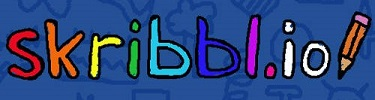
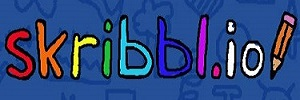
Add css

diff --git a/src/mycomp/lobby.js b/src/mycomp/lobby.js
@@ -26,12 +26,15 @@ const Lobby = () => {
     const [ time, setTime ] = useState("");
     const [ timeUp, setTimeUp ] = useState(false);
     const [ picker, setPicker ] = useState("");
+    const [ roundNumber, setRoundNumber ] = useState(0);
     const [ boardLock, setBoardLock ] = useState(false);
     const [ wordList, setWordList ] = useState([]);
     const [ showWordList, setShowWordList ] = useState(false);
     const [ choseWord, setChoseWord ] = useState(false);
     const [ choosenWord, setChoosenWord ] = useState("");
     const [ chatLock, setChatlock ] = useState(false);
+    const [ gameOver, setGameOver ] = useState(false);
+    const [ drawing, setDrawing ] = useState(false);
 
     useEffect(() => {
         
@@ -71,7 +74,15 @@ const Lobby = () => {
         gameSocket.on("Pick A Word", (wordList) => {
             setWordList(wordList);
             setShowWordList(true);
-            
+        });
+
+        gameSocket.on("Game over", () => {
+            setGameOver(true);
+        });
+
+        gameSocket.on("User is drawing", (user) => {
+            if (user != username)
+                setDrawing(true);
         });
 
     },[gameSocket])
@@ -88,14 +99,9 @@ const Lobby = () => {
     <Row>
     <Col>
         <span>
-            {time != 0 ? <h4>Time remaining: {time}</h4> : <h4> Times up</h4> }
-            {showWordList && <button className="button" onClick={() => {setChoseWord(true); handleChoseWord(); setShowWordList(false); }}> </button>}
-            {showWordList && <h2>User Picking words:{picker}</h2>}
-            {/* {showWordList && wordList.map((word,index) => {
-                return (
-                    <h4 key={index}>{word}</h4>
-                );
-            })} */}
+            <Container className="Skribbl"></Container>
+           
+            
             <Modal
             show={showWordList}
             // onHide={() => setShowWordList(false)}
@@ -125,12 +131,19 @@ const Lobby = () => {
                 <Button variant="primary">Understood</Button>
             </Modal.Footer> */}
             </Modal>
-            <div className="Participants">
-            <Participants/>
-            </div>
+            <span>
+                <div>
+                    <span>
+                    {gameOver && time != 0 ? <h4>Time remaining: {time}</h4> : <h4> Times up</h4> }
+                    </span>
+                <div className="Participants">
+                    <Participants/>
+                </div>
+                </div>
+            </span>
         </span>
     </Col>
-    <Col xs={6} >
+    <Col style={{marginTop:"5vh"}} xs={6} >
         <span className="Board">
             <div>
                  <span className="color-picker-container">
@@ -160,12 +173,13 @@ const Lobby = () => {
                  </span>
                  </div>
                  <div className={mode==="eraser" ? "canvas2" : "canvas1"} >
-                    <Board color={color} size={size} mode={mode}/>
+                    <Board color={color} size={size} mode={mode} boardLock={boardLock} />
                  </div>
          </span>
     </Col>
-    <Col>
+    <Col style={{marginTop:"12vh"}}>
         <span className="overflow-auto" id="chat-section">
+                <h2>Chat</h2>
                 <Chat 
                     gameSocket={gameSocket}
                     chatLock={chatLock}

diff --git a/src/mycomp/board.js b/src/mycomp/board.js
@@ -12,11 +12,14 @@ class board extends React.Component {
     username;
     roomid;
     mode;
+    
 
     constructor(props){
         super(props);
         this.mode="pen";
-
+        this.state={
+            boardLock: this.props.match.params.boardLock
+        }
         this.username =this.props.match.params.username;
         this.roomid =this.props.match.params.roomid;
         this.socket = io("http://127.0.0.1:8080",{ transports: [ "websocket" ],query:{userName:this.username}});
@@ -108,32 +111,33 @@ class board extends React.Component {
         var root=this;
         var onPaint = function() {
             
-            if(root.mode==="pen"){
+            if (!this.boardLock){
+                if(root.mode==="pen"){
 
-                ctx.globalCompositeOperation="source-over";
-                ctx.beginPath();
-                ctx.moveTo(last_mouse.x, last_mouse.y);
-                ctx.lineTo(mouse.x, mouse.y);
-                ctx.closePath();
-                ctx.stroke();
+                    ctx.globalCompositeOperation="source-over";
+                    ctx.beginPath();
+                    ctx.moveTo(last_mouse.x, last_mouse.y);
+                    ctx.lineTo(mouse.x, mouse.y);
+                    ctx.closePath();
+                    ctx.stroke();
+                }
+                if(root.mode==="eraser"){
+                    ctx.globalCompositeOperation="destination-out";
+                    // ctx.arc(last_mouse.x, last_mouse.y,1,0,Math.PI*2,false);
+                    ctx.beginPath();
+                    ctx.moveTo(last_mouse.x, last_mouse.y);
+                    ctx.lineTo(mouse.x, mouse.y);
+                    ctx.closePath();
+                    ctx.stroke();
+                    // ctx.fill();
+                    ctx.globalCompositeOperation="source-over";
+                }
+                if(root.timeout !== undefined){clearTimeout(root.timeout);}
+                root.timeout=setTimeout(function(){
+                    var base64ImageData=canvas.toDataURL("image/png");
+                    root.socket.emit("canvas-data",base64ImageData,root.roomid);
+                },200)
             }
-            if(root.mode==="eraser"){
-                ctx.globalCompositeOperation="destination-out";
-                // ctx.arc(last_mouse.x, last_mouse.y,1,0,Math.PI*2,false);
-                ctx.beginPath();
-                ctx.moveTo(last_mouse.x, last_mouse.y);
-                ctx.lineTo(mouse.x, mouse.y);
-                ctx.closePath();
-                ctx.stroke();
-                // ctx.fill();
-                ctx.globalCompositeOperation="source-over";
-            }
-            if(root.timeout !== undefined){clearTimeout(root.timeout);}
-            root.timeout=setTimeout(function(){
-                var base64ImageData=canvas.toDataURL("image/png");
-                root.socket.emit("canvas-data",base64ImageData,root.roomid);
-            },200)
-
         };
     
     };

diff --git a/src/mycomp/lobby.css b/src/mycomp/lobby.css
@@ -7,10 +7,21 @@
     text-align: center;
 }
 .Participants{
-    margin-top:15vh;
+    margin-top: 3vh;
     height:70vh;
-    background-color: rgb(194, 153, 153);
+    background-color: rgb(255, 255, 255);
 }
+
+.Participants h2{
+    text-align: center;
+    font-size: 30px;
+    color: crimson;
+    margin-bottom: 10px;
+    border-radius: 1px;
+    border-color: black;
+  }
+  
+
 .canvas1{
     height:77vh;
     margin-top: 3vh;
@@ -32,11 +43,17 @@
 }
 #chat-section{
     height: 70vh;
-    margin-top:15vh;
+    margin-top:3vh;
   
     background-image: url("../chat-background.jfif");
 }
-
+#chat-section h2{
+    text-align: center;
+    font-size: 30px;
+    color: rgb(20, 67, 220);
+    margin-bottom: 10px;
+  }
+  
 .wordButton {
     background: #f1356d;
     color: #fff;
@@ -48,3 +65,11 @@
     margin-right: 10px;
     cursor: pointer;
   }
+
+  .Skribbl {
+      width: 300px;
+      height: 100px;
+      background-image: url("../Skribbl.jpg");
+  }
+
+ 

diff --git a/socket/gameServer.js b/socket/gameServer.js
@@ -153,7 +153,7 @@ io.on("connection", (socket) => {
          
         //console.log(timeToRoom[room]);
         socket.emit("Time broadcast", timeToRoom[room]);
-        socket.emit("Round number");
+        socket.emit("Round number", roundToRoom[socketToRoom[socket.id]]);
         socket.join(room);
         console.log("assigning room = ",room);
         socketToRoom[socket.id] = room;
@@ -210,7 +210,7 @@ io.on("connection", (socket) => {
     socket.on("Chose word", (word) => {
         console.log(word);
         io.to(socketToRoom[socket.id]).emit("User is drawing", socketToUserName[socket.id]);
-        socket.emit("Unlock board");
+        
         roundGoing[socketToRoom[socket.id]] = true;
         startRound(socketToRoom[socket.id]);
     });

diff --git a/src/mycomp/chat.js b/src/mycomp/chat.js
@@ -5,7 +5,7 @@ import { useParams } from 'react-router';
 import Container from 'react-bootstrap/Container';
 import Button from 'react-bootstrap/Button';
 
-var socket = null;
+var socket = io("http://127.0.0.1:8080",{ transports: [ "websocket" ]});
 
 const Chat = ({chatLock}) => {
     
@@ -18,7 +18,7 @@ const Chat = ({chatLock}) => {
     
     useEffect(() => {
         
-        socket = io("http://127.0.0.1:8080",{ transports: [ "websocket" ], query:{userName:username}});
+        
         console.log("HEYEYEYE");
         socket.emit("JOIN_ROOM",roomid);
 

diff --git a/socket/ChatandBoardserver.js b/socket/ChatandBoardserver.js
@@ -27,7 +27,7 @@ io.on("connection",(socket) => {
     
 
     socket.on("JOIN_ROOM", (room)=>{
-        let userName = socket.handshake.query.userName;
+        // let userName = socket.handshake.query.userName;
         // if (!roomusermap.has(room)){
         //     roomusermap.set(room,userName);
         // }

diff --git a/src/mycomp/participants.js b/src/mycomp/participants.js
@@ -29,7 +29,7 @@ const Participants=()=>{
     
     return(
         <div>
-            <h1>Participants</h1>
+            <h2>Participants</h2>
             {alluser.length>0 && alluser.map((user,index) => {
               return(
               <p key={index}>{user.UserName}</p>
